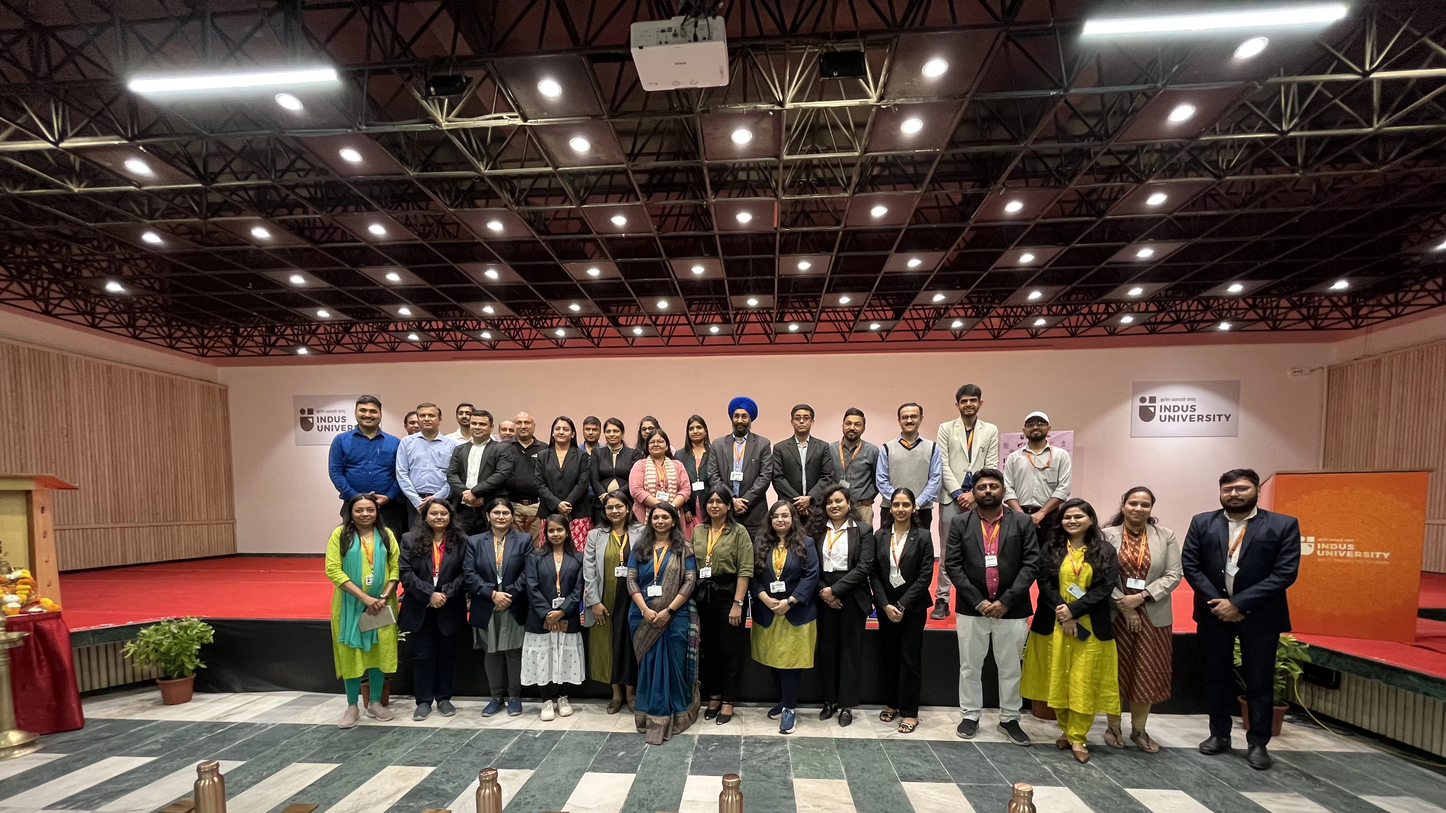
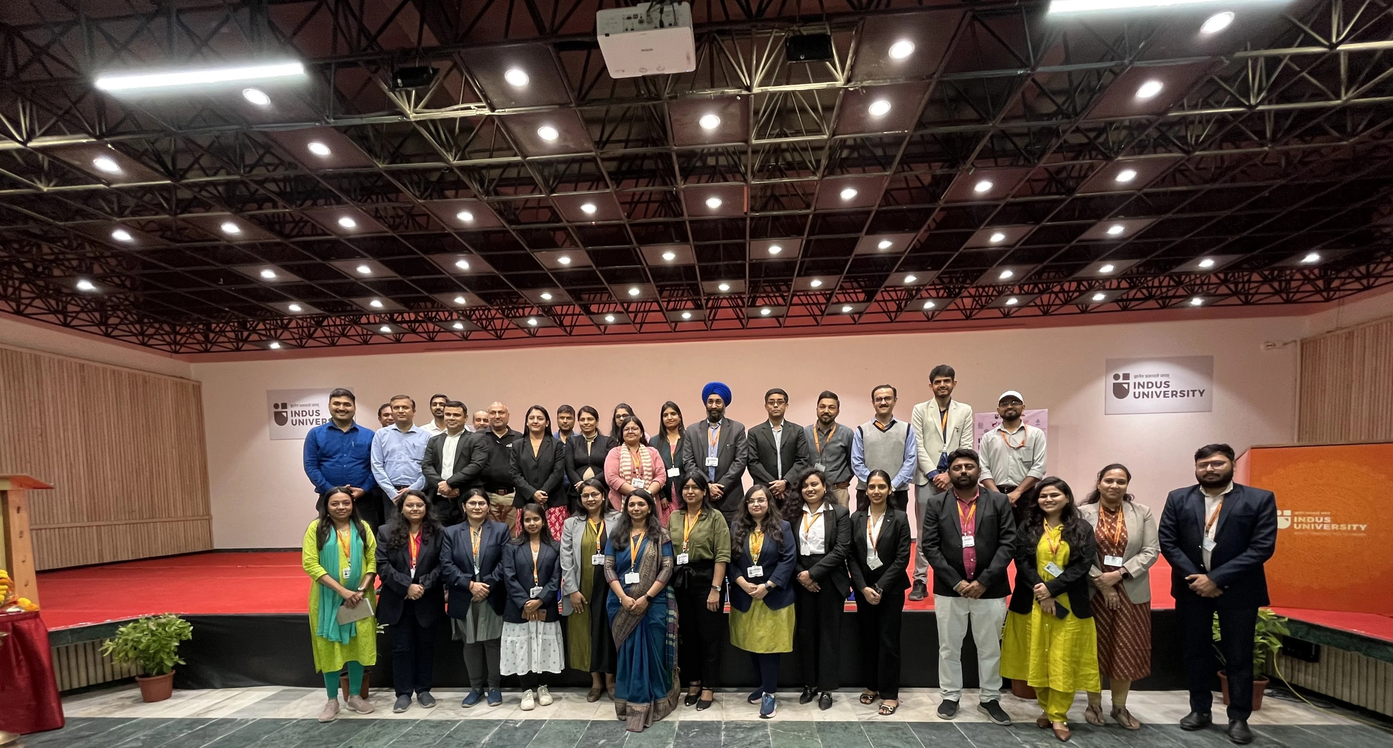
final push

diff --git a/IH_26_Website/index.html b/IH_26_Website/index.html
@@ -61,7 +61,7 @@
                     <h1 class="hero-title">Indus Hackathon 2025</h1>
                     <div class="hero-separator"></div>
                     <p class="hero-subtitle">CODE.CREATE.CONQUER</p>
-                    <p>Organized By CSE Department,IITE</p>
+                    <p class="hero-subtitle">Organized By CSE Department,IITE</p>
                 </div>
                 <div class="scroll-hint fade-in-up delay-3">
                     <div class="arrow-down"></div>
@@ -253,7 +253,7 @@
                             data-caption="In the zone">
                     </div>
                     <div class="track-item">
-                        <img src="../assets/img/hackathon_25/COMPETITION/20250131_151305.webp" alt="Lunch Break"
+                        <img src="../assets/img/hackathon_25/COMPETITION/20250131_195243.jpg" alt="Lunch Break"
                             data-caption="Refueling">
                     </div>
                     <div class="track-item">
@@ -326,8 +326,8 @@
             <div class="memory-collage">
                 <img src="../assets/img/hackathon_25/memorywall/20250131_085647.webp" class="mem-img drift-1">
                 <!-- <img src="../assets/img/hackathon_25/memorywall/20250131_090749.webp" class="mem-img drift-2"> -->
-                <img src="../assets/img/hackathon_25/memorywall/20250131_105407.webp" class="mem-img drift-3">
-                <img src="../assets/img/hackathon_25/memorywall/20250131_193219_1.webp" class="mem-img drift-4">
+                <img src="../assets\img\hackathon_25\COMPETITION\20250131_195243.jpg" class="mem-img drift-3">
+                <img src="../assets/img/faculty_bts.jpg" class="mem-img drift-4">
             </div>
             <div class="closing-message fade-in">
                 <h2>Odoo x Indus Hackathon 2026 </h2>
